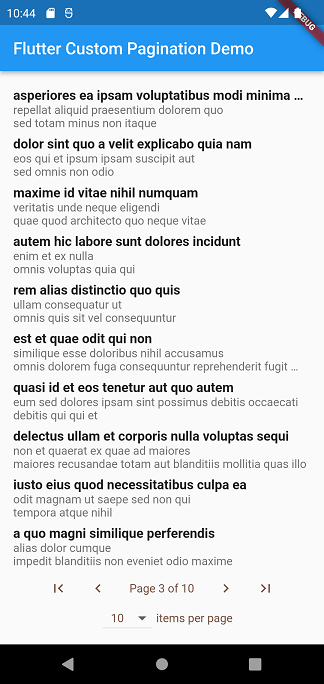
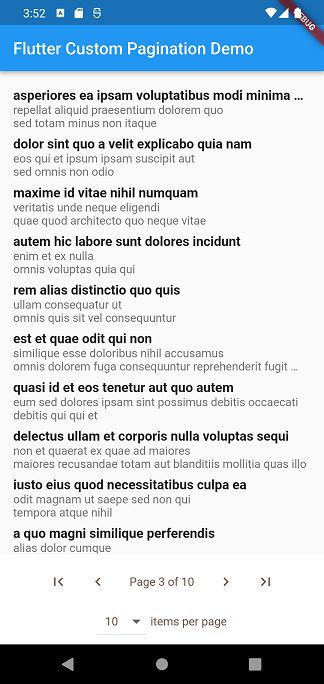
update README.md, CHANGELOG.md, examples and screeenshots

diff --git a/example/main.dart b/example/main.dart
@@ -48,8 +48,8 @@ class _MyHomePageState extends State<MyHomePage> {
   );
 
   int currentPage = 1;
-  int currentPageLimit = 10;
-  List<int> pageLimitOptions = [10, 30, 50];
+  int pageLimit = 10;
+  List<int> pageLimitOptions = [10, 25, 50];
   int totalDataCount = 100;
   dynamic sampleData = [];
 
@@ -124,7 +124,7 @@ class _MyHomePageState extends State<MyHomePage> {
       children: [
         FlutterCustomPagination(
           currentPage: currentPage,
-          limitPerPage: currentPageLimit,
+          limitPerPage: pageLimit,
           totalDataCount: totalDataCount,
           onPreviousPage: _onChangePage,
           onBackToFirstPage: _onChangePage,
@@ -138,11 +138,12 @@ class _MyHomePageState extends State<MyHomePage> {
           goToLastPageIcon: Icons.last_page,
         ),
         FlutterCustomPaginationOptions(
-          limitPerPage: currentPageLimit,
+          limitPerPage: pageLimit,
           backgroundColor: Theme.of(context).colorScheme.background,
           textStyle: _textStyle,
           pageLimitOptions: pageLimitOptions,
           onPageLimitChanged: _onPageLimitChanged,
+          text: 'items per page',
         ),
       ],
     );
@@ -162,15 +163,16 @@ class _MyHomePageState extends State<MyHomePage> {
       mainAxisAlignment: MainAxisAlignment.spaceBetween,
       children: [
         FlutterCustomPaginationOptions(
-          limitPerPage: currentPageLimit,
+          limitPerPage: pageLimit,
           backgroundColor: Theme.of(context).colorScheme.background,
           textStyle: _textStyle,
           pageLimitOptions: pageLimitOptions,
           onPageLimitChanged: _onPageLimitChanged,
+          text: 'items per page',
         ),
         FlutterCustomPagination(
           currentPage: currentPage,
-          limitPerPage: currentPageLimit,
+          limitPerPage: pageLimit,
           totalDataCount: totalDataCount,
           onPreviousPage: _onChangePage,
           onBackToFirstPage: _onChangePage,
@@ -187,10 +189,10 @@ class _MyHomePageState extends State<MyHomePage> {
     );
   }
 
-  _onPageLimitChanged(int? pageLimit) async {
+  _onPageLimitChanged(int? limit) async {
     setState(() {
       currentPage = 1;
-      currentPageLimit = pageLimit ?? 15;
+      pageLimit = limit ?? 15;
     });
     await _getSampleData();
   }
@@ -208,7 +210,7 @@ class _MyHomePageState extends State<MyHomePage> {
         sampleData = [];
       });
       final response =
-          await dio.get('/posts?_page=$currentPage&_limit=$currentPageLimit');
+          await dio.get('/posts?_page=$currentPage&_limit=$pageLimit');
       setState(() {
         sampleData = response.data;
 

diff --git a/lib/flutter_custom_pagination_options.dart b/lib/flutter_custom_pagination_options.dart
@@ -18,15 +18,12 @@ class FlutterCustomPaginationOptions extends StatelessWidget {
   /// The limit per page.
   /// <br><br>
   /// Must be greater than 0.<br>
-  /// Must be included in the "pageLimitOptions" listing if "showPageLimitOptions" is true.<br>
   ///
   final int limitPerPage;
 
   ///
   /// The page limit options.
   /// <br><br>
-  /// This parameter is optional.<br>
-  /// If this parameter is empty, the default page limit options will be used.<br>
   ///
   final List<int> pageLimitOptions;
 
@@ -34,8 +31,6 @@ class FlutterCustomPaginationOptions extends StatelessWidget {
   /// The callback function when the page limit option is changed.
   /// <br><br>
   /// The parameter is <int?> the page limit.<br>
-  /// This parameter is optional.<br>
-  /// This parameter must exist if "showPageLimitOptions" is true.<br>
   ///
   final Function(int?)? onPageLimitChanged;
 

diff --git a/README.md b/README.md
@@ -7,12 +7,19 @@
 
 A simple package to help you paginate your data, in web and mobile. This custom pagination is created due to inflexibility of the Flutter's paginated data table.
 
+* **FlutterCustomPagination** 
+* **FlutterCustomPaginationOptions**. 
+
+**FlutterCustomPagination** is the main widget that will be used to display the pagination. <br>
+**FlutterCustomPaginationOptions** is the widget that will be used to display the page limit options. FlutterCustomPaginationOptions is seperated out to enable more flexibility in displaying the different layouts in different screen sizes.
+
 Current look and feel are based on Material Design. Feel to contribute to this package to enhance the look and feel of the pagination.
 <br><br>
 
-## Screenshot image
+## Screenshots
 
-![screenshot](https://github.com/kimmanwky/flutter_custom_pagination/blob/master/Screenshot_1.png?raw=true&width=300)
+![screenshot-smallscreen](https://github.com/kimmanwky/flutter_custom_pagination/blob/master/screenshot_1.png?raw=true)
+![screenshot-bigscreen](https://github.com/kimmanwky/flutter_custom_pagination/blob/master/screenshot_2.png?raw=true)
 
 ## Getting Started
 
@@ -20,56 +27,85 @@ Add this plugin:
 
 ```yaml
 dependencies:
-  flutter_custom_pagination: ^0.1.0
+  flutter_custom_pagination: ^0.2.0
 ```
 
 ## Usage
 
 ```dart
 import 'package:flutter_custom_pagination/flutter_custom_pagination.dart';
+import 'package:flutter_custom_pagination/flutter_custom_pagination_options.dart';
 
 class MyWidget extends StatelessWidget {
+  int currentPage = 1;
+  int pageLimit = 10;
+  List<int> pageLimitOptions = [10, 25, 50];
+  int totalDataCount = 100;
+
   @override
   Widget build(BuildContext context) {
-    return FlutterCustomPagination(
-      currentPage: currentPage,
-      limitPerPage: currentPageLimit,
-      totalDataCount: totalDataCount,
-      onPreviousPage: _onChangePage,
-      onBackToFirstPage: _onChangePage,
-      onNextPage: _onChangePage,
-      onGoToLastPage: _onChangePage,
-      backgroundColor: Theme.of(context).colorScheme.background,
-      textStyle: Theme.of(context).textTheme.labelMedium,
-      showPageLimitOptions: true,
-      pageLimitOptions: pageLimitOptions,
-      onPageLimitChanged: _onPageLimitChanged,
-      previousPageIcon: Icons.keyboard_arrow_left,
-      backToFirstPageIcon: Icons.first_page,
-      nextPageIcon: Icons.keyboard_arrow_right,
-      goToLastPageIcon: Icons.last_page,
-    ),
-  );
+    return Wrap(
+      alignment: WrapAlignment.center,
+      children: [
+        FlutterCustomPagination(
+          currentPage: currentPage,
+          limitPerPage: pageLimit,
+          totalDataCount: totalDataCount,
+          onPreviousPage: _onChangePage,
+          onBackToFirstPage: _onChangePage,
+          onNextPage: _onChangePage,
+          onGoToLastPage: _onChangePage,
+          backgroundColor: Theme.of(context).colorScheme.background,
+          textStyle: _textStyle,
+          previousPageIcon: Icons.keyboard_arrow_left,
+          backToFirstPageIcon: Icons.first_page,
+          nextPageIcon: Icons.keyboard_arrow_right,
+          goToLastPageIcon: Icons.last_page,
+        ),
+        FlutterCustomPaginationOptions(
+          limitPerPage: currentPageLimit,
+          backgroundColor: Theme.of(context).colorScheme.background,
+          textStyle: _textStyle,
+          pageLimitOptions: pageLimitOptions,
+          onPageLimitChanged: _onPageLimitChanged,
+        ),
+      ],
+    );
 }
 ```
 
+<br>
+
 ## Parameters
+
+### FlutterCustomPagination
 
 | Name                 | Type          | Description                                                             |
 | -------------------- | ------------- | ----------------------------------------------------------------------- |
-| currentPage          | int           | The current page number                                                 |
-| limitPerPage         | int           | The limit of data per page                                              |
-| totalDataCount       | int           | The total data count                                                    |
-| onPreviousPage       | Function(int) | The function to be called when the previous page button is pressed      |
+| currentPage*         | int           | The current page number                                                 |
+| limitPerPage*        | int           | The limit of data per page                                              |
+| totalDataCount*      | int           | The total data count                                                    |
+| onPreviousPage*      | Function(int) | The function to be called when the previous page button is pressed      |
 | onBackToFirstPage    | Function(int) | The function to be called when the back to first page button is pressed |
-| onNextPage           | Function(int) | The function to be called when the next page button is pressed          |
+| onNextPage*          | Function(int) | The function to be called when the next page button is pressed          |
 | onGoToLastPage       | Function(int) | The function to be called when the go to last page button is pressed    |
 | backgroundColor      | Color         | The background color of the pagination                                  |
 | textStyle            | TextStyle     | The text style of the pagination                                        |
-| showPageLimitOptions | bool          | Whether to show the page limit options                                  |
-| pageLimitOptions     | List<int>     | The page limit options                                                  |
-| onPageLimitChanged   | Function(int) | The function to be called when the page limit is changed                |
 | previousPageIcon     | IconData      | The icon of the previous page button                                    |
 | backToFirstPageIcon  | IconData      | The icon of the back to first page button                               |
 | nextPageIcon         | IconData      | The icon of the next page button                                        |
 | goToLastPageIcon     | IconData      | The icon of the go to last page button                                  |
+
+<br>
+
+### FlutterCustomPaginationOptions
+
+| Name                 | Type          | Description                                                             |
+| -------------------- | ------------- | ----------------------------------------------------------------------- |
+| limitPerPage*        | int           | The limit of data per page                                              |
+| pageLimitOptions*    | List<int>     | The page limit options                                                  |
+| onPageLimitChanged*  | Function(int) | The function to be called when the page limit is changed                |
+| backgroundColor      | Color         | The background color of the pagination                                  |
+| textStyle            | TextStyle     | The text style of the pagination                                        |
+| text                 | String        | The text to be displayed after the page limit options                   |
+| isDense              | bool          | Whether the dropdown button is dense or not                             |

diff --git a/CHANGELOG.md b/CHANGELOG.md
@@ -1,3 +1,6 @@
+## 0.2.0
+* [BREAKING] split FlutterCustomPaginationOptions into different individual widget
+
 ## 0.1.1
 * format files
 
